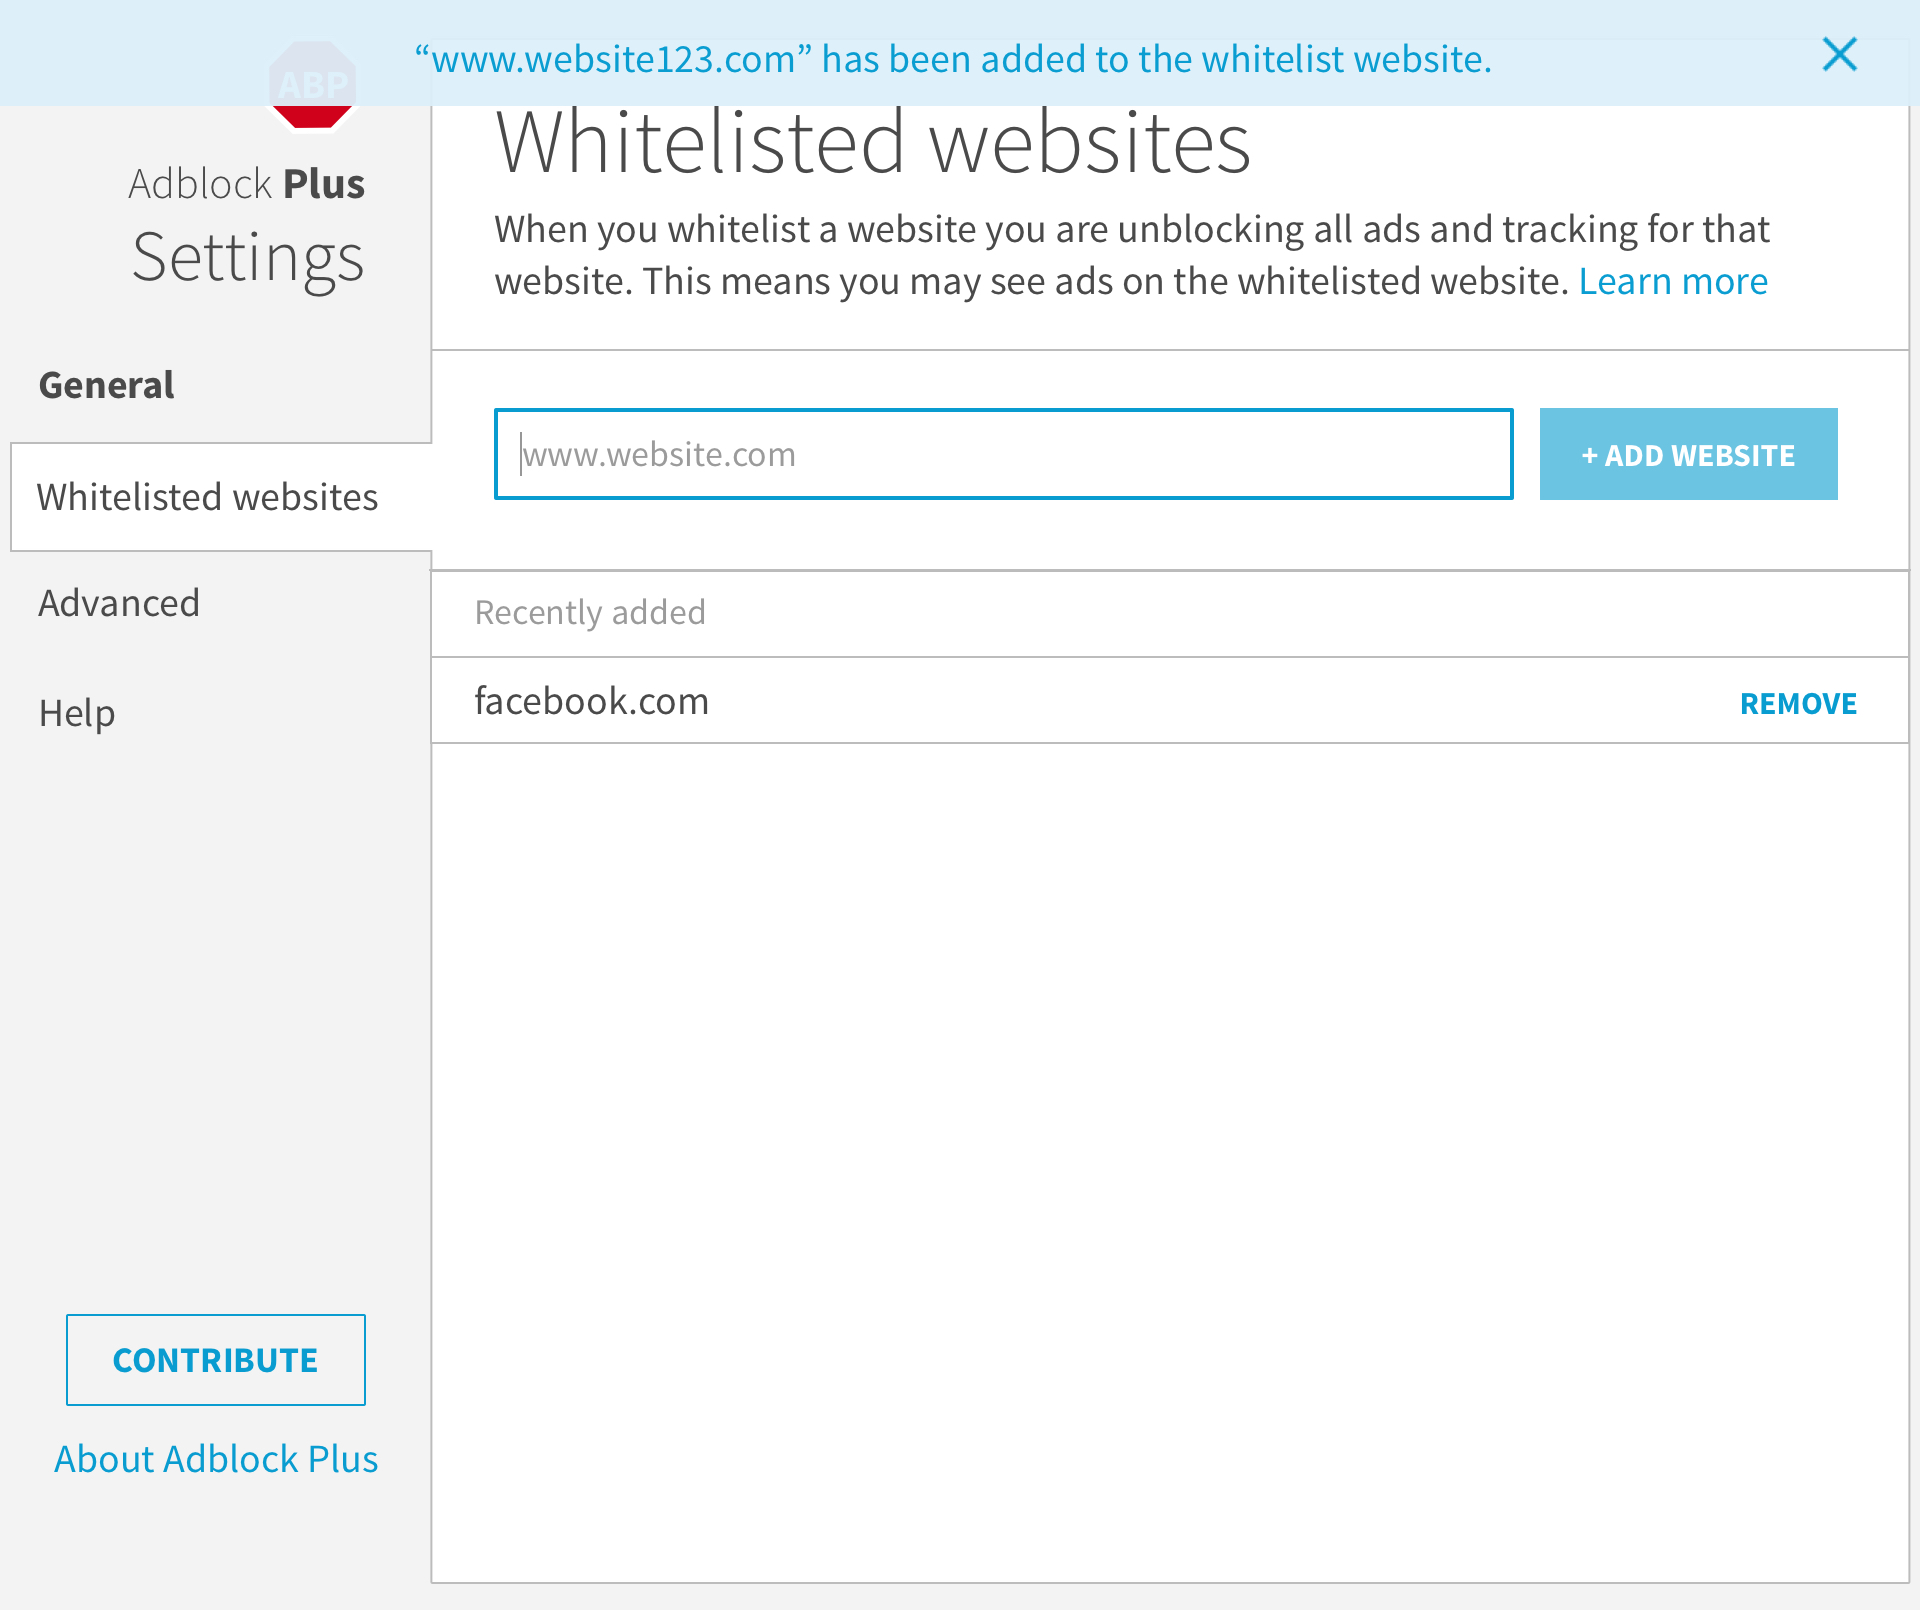
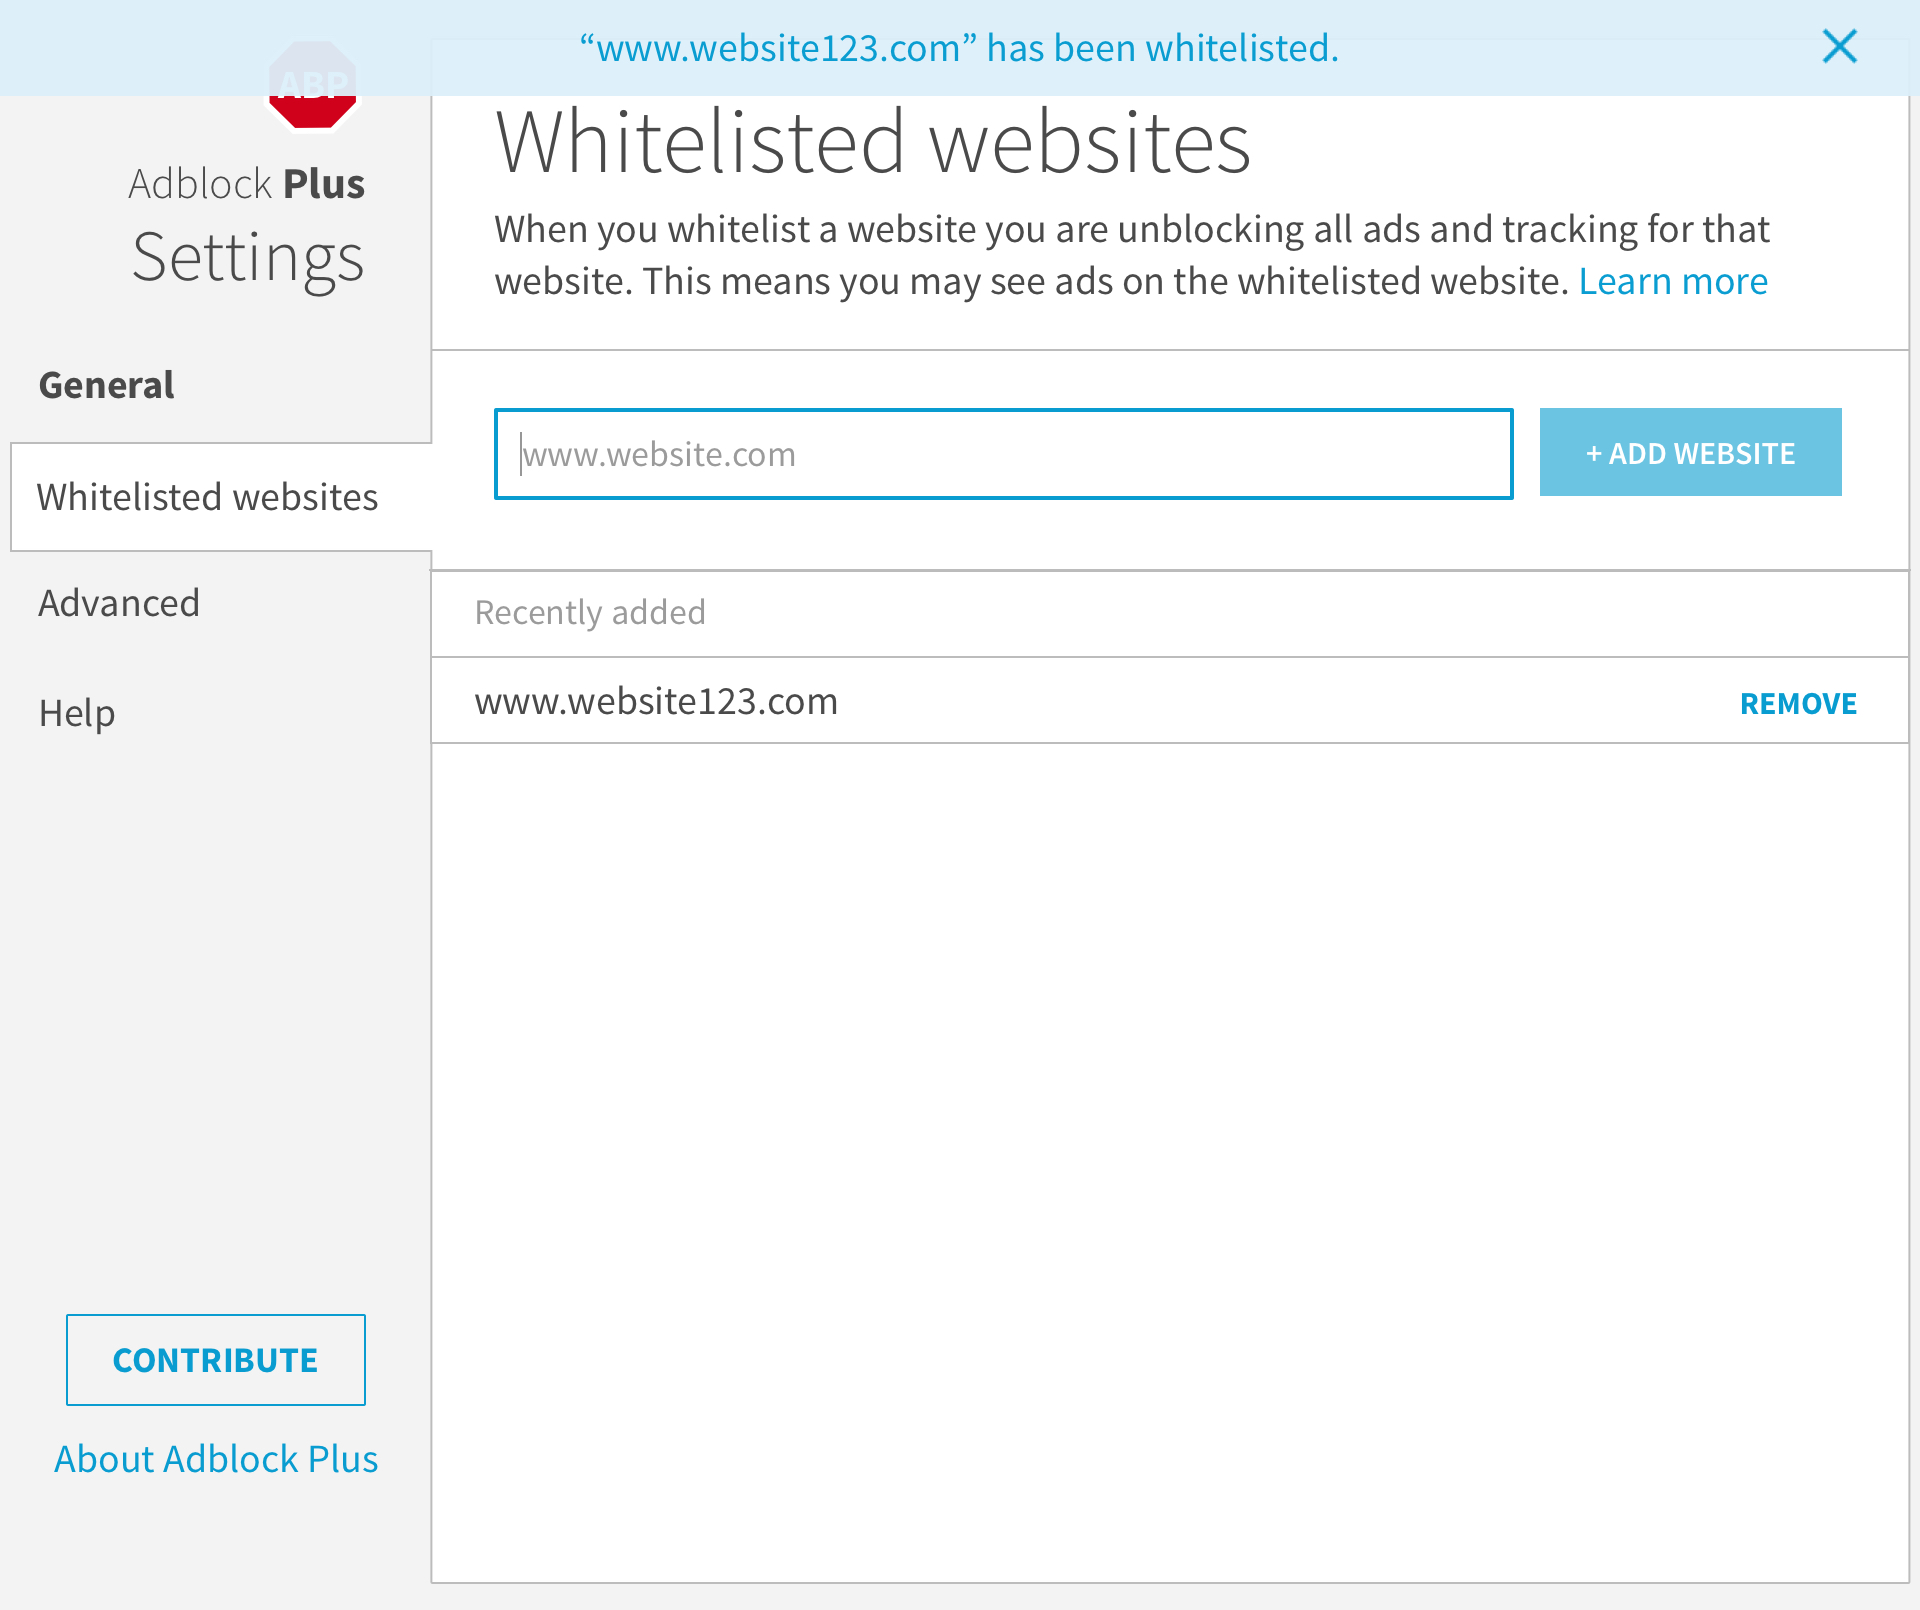
Added clarification on the notification when websites are whitelisted.

diff --git a/spec/abp/options-page.md b/spec/abp/options-page.md
@@ -418,20 +418,15 @@ If clicked the corresponding whitelisted domain is removed.
 
 ### Whitelisted domain added notification
 
-![](/res/abp/options-page/whitelisted-websites-notification.jpg'
-  width='888px' />
+![](/res/abp/options-page/whitelisted-websites-notification.jpg)
 
 1. [Whitelisted domain added notification](#markdown-header-add-whitelisted-domain-button)
 
 #### Whitelisted domain added notification
 
-The notification should push down page from the top and disappear if the X is
-clicked or automatically after 2 seconds.
-
-`"{}" has been added as a whitelisted website.`
-
-***TODO***: Clarification needed
-
+- The notification should appear as an overlay sliding in from the top of the page.
+- The notification will disappear if the X is clicked or automatically after 3 seconds.
+- `"<website>" has been whitelisted.`
 
 Advanced tab
 ------------
@@ -476,7 +471,8 @@ Description for the [Advanced tab](#markdown-header-advanced-tab): `Customize Ad
 - Checkbox to en-/disable [Block Element Context Menu Entry](#markdown-header-TBA).
 - `Show 'Block Element’ right-click menu item`
 
-##### Tooltip: 
+##### Tooltip:
+ 
 - `Temporarily block annoying items on a webpage, e.g. images or animated slideshows.`
 - Behaviour specified in [Tooltip icon](#markdown-header-tooltip-icon).
 
